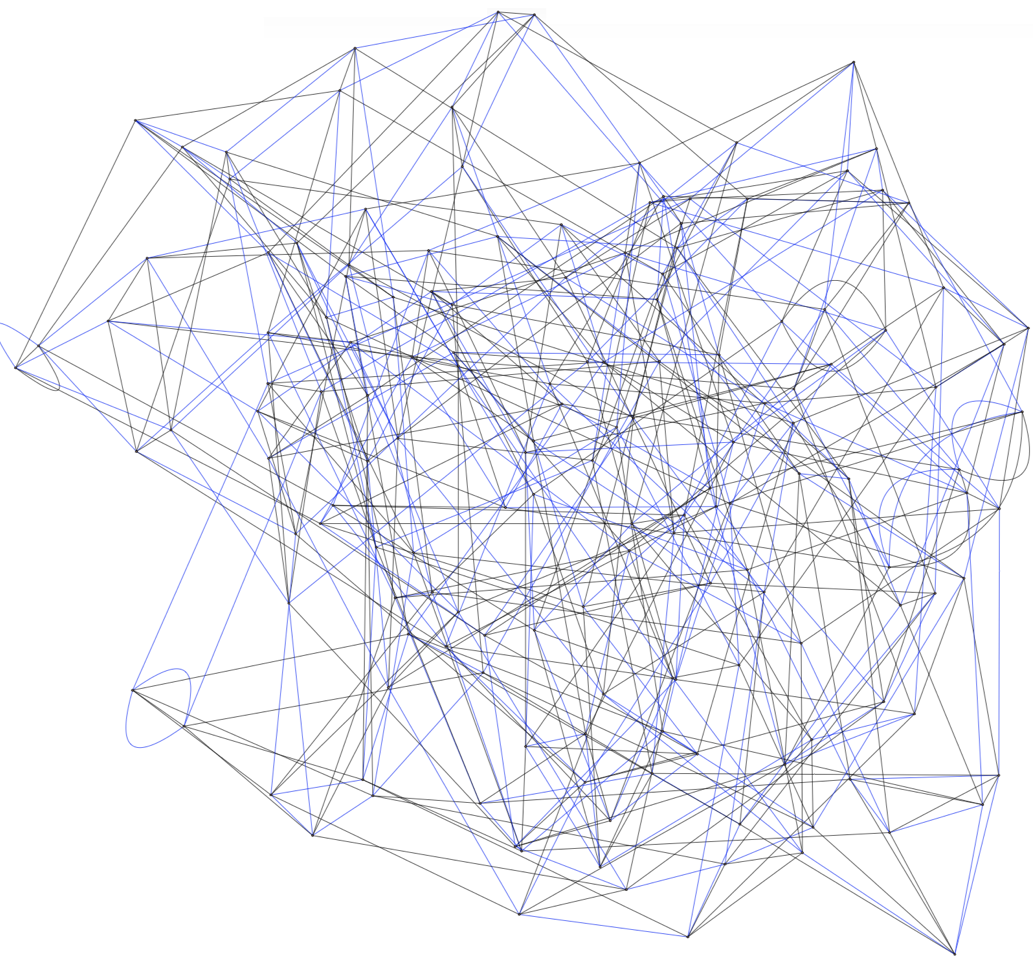
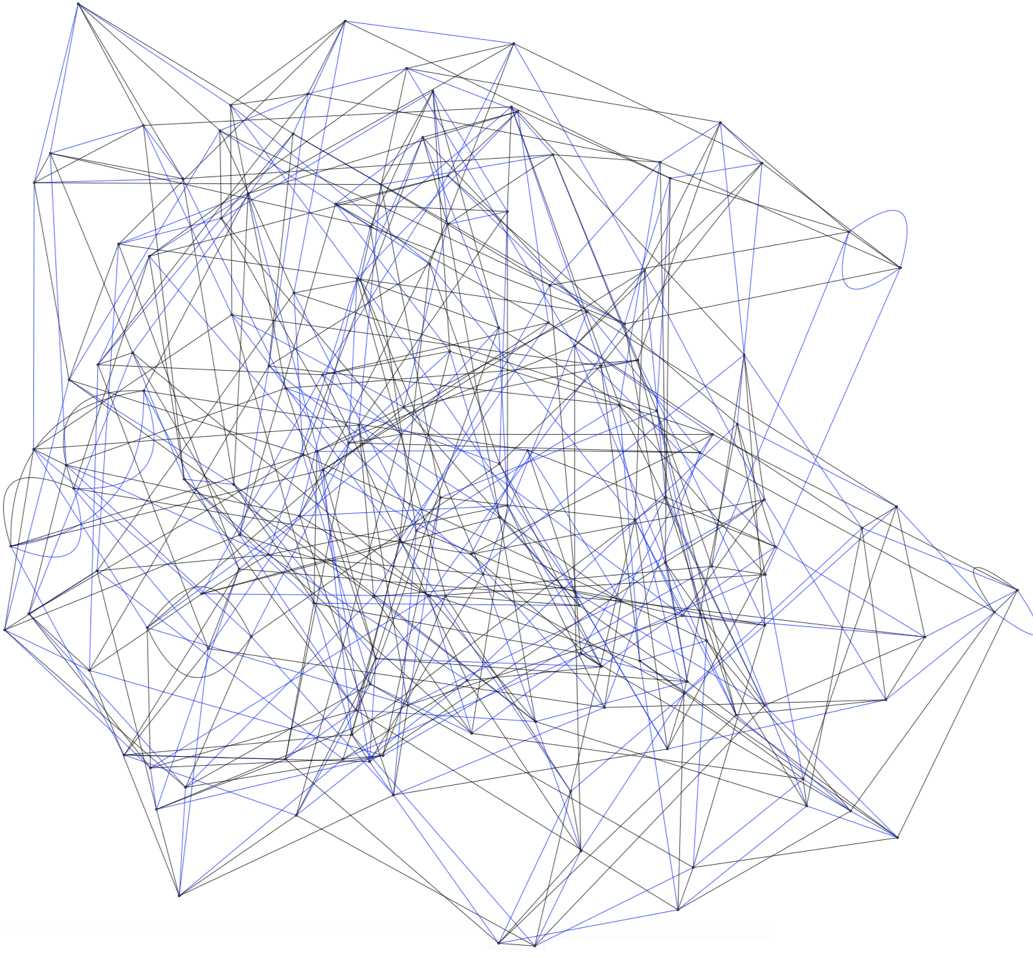
Add files via upload

diff --git a/README.md b/README.md
@@ -1,1 +1,49 @@
-# WissamGhantous.github.io
+# wissamghantous.github.io
+
+Plain HTML/CSS personal academic site, no build step required.
+
+## Files
+- `index.html` — Home (bio + photo)
+- `research.html` — Research (publications + talks)
+- `teaching.html` — Teaching & supervision
+- `style.css` — shared styling
+
+## Deploying to GitHub Pages
+
+You already own the repo `wissamghantous.github.io`, so this is a straight replace:
+
+```bash
+# 1. Clone your existing repo (or cd into it if you already have it locally)
+git clone https://github.com/wissamghantous/wissamghantous.github.io.git
+cd wissamghantous.github.io
+
+# 2. Copy in the new files (overwriting the old index.html etc.)
+# Keep "Ghantous Thesis.pdf" — research.html links to it directly.
+cp /path/to/downloaded/index.html .
+cp /path/to/downloaded/research.html .
+cp /path/to/downloaded/teaching.html .
+cp /path/to/downloaded/style.css .
+
+# 3. Commit and push
+git add .
+git commit -m "Redesign site as plain HTML/CSS"
+git push origin main
+```
+
+GitHub Pages will redeploy automatically within a minute or two at
+https://wissamghantous.github.io
+
+## To customize later
+- **Photo**: currently pulled from your old Google Sites image link. Swap in
+  your own file (e.g. `portrait.jpg` placed in the repo root) and update the
+  `src` in `index.html`.
+- **Colors**: edit the `:root` variables at the top of `style.css`
+  (`--accent` controls link/heading color).
+- **New publication**: copy a `<li class="pub-item">...</li>` block in
+  `research.html` and edit.
+- **New talk**: add a `<li>` under the relevant `<div class="year-block">`
+  in `research.html`, or add a new year block.
+- **New course/student**: add a `<li>` under the relevant section in
+  `teaching.html`.
+
+No npm, no build tools — just edit the `.html`/`.css` files directly and push.